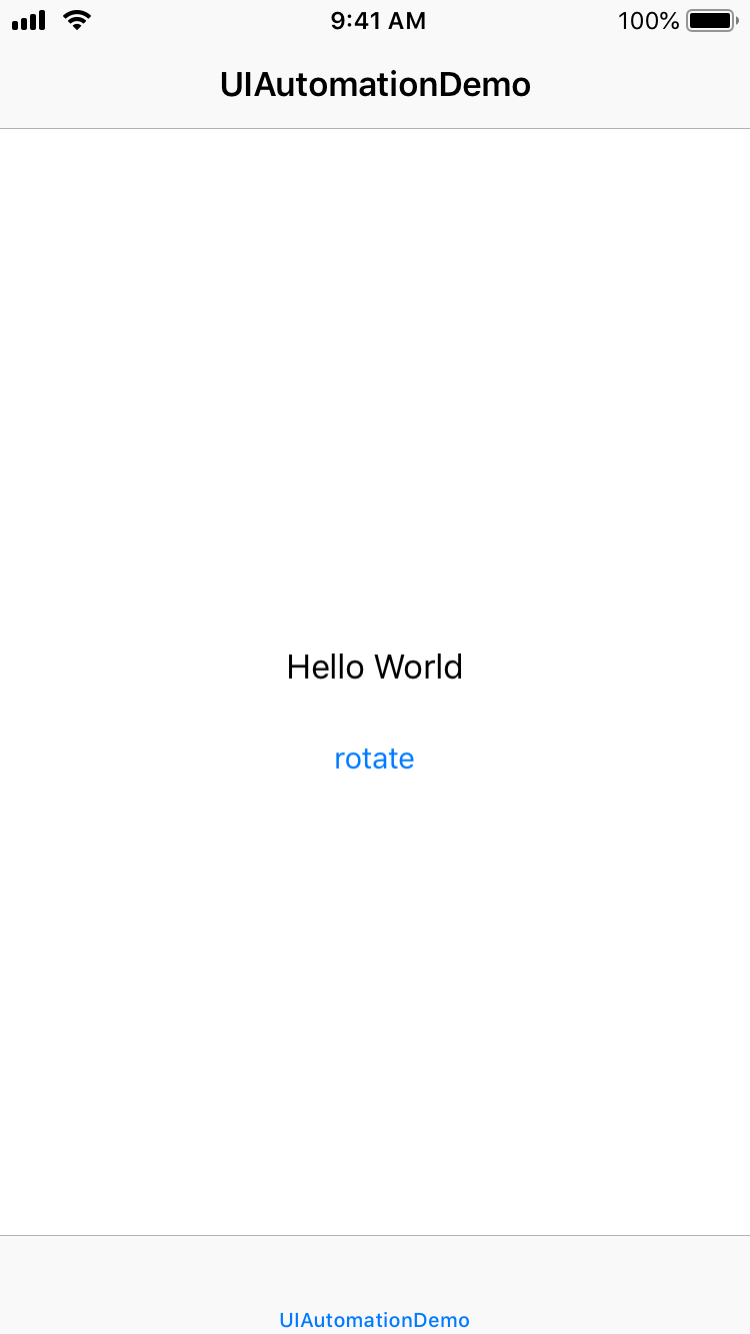
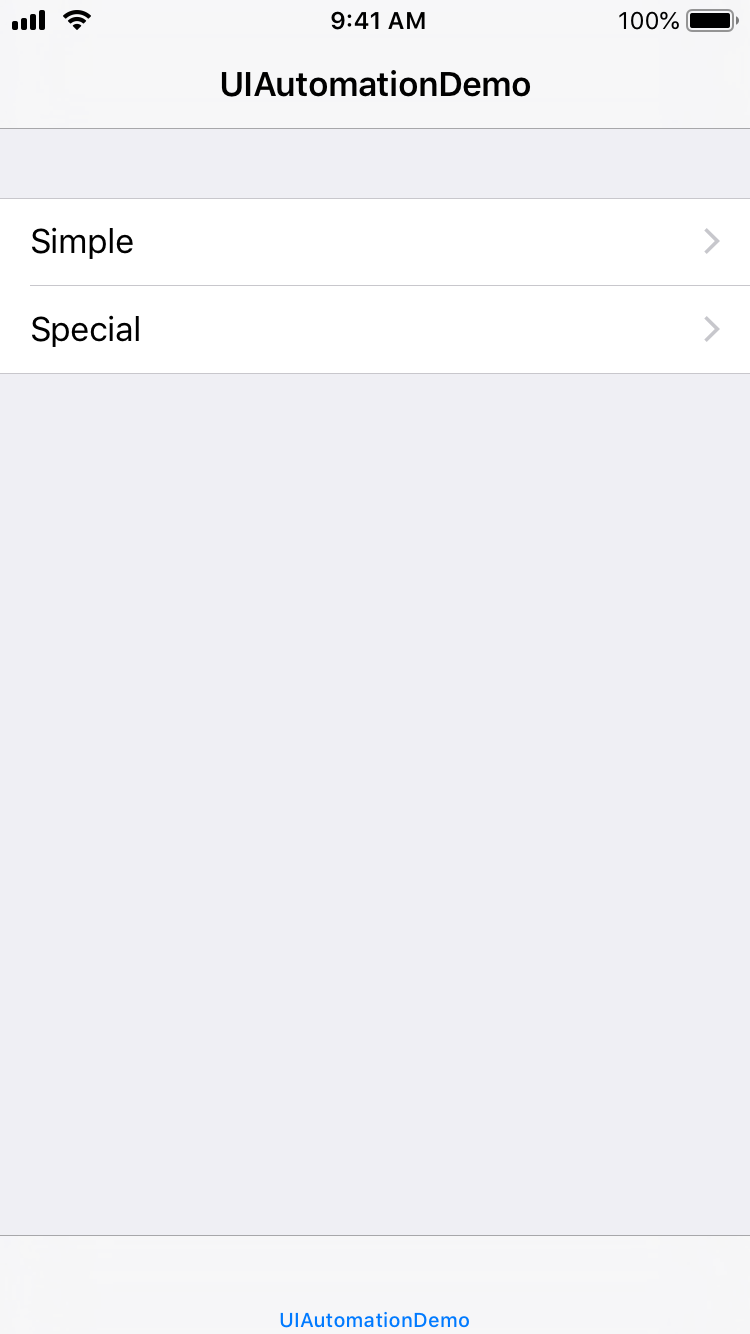
Update Example

diff --git a/UIAutomationDemoUITests/UIAutomationDemoUITests.swift b/UIAutomationDemoUITests/UIAutomationDemoUITests.swift
@@ -8,32 +8,49 @@
 
 import XCTest
 
+extension XCUIElement {
+    // The following is a workaround for inputting text in the
+    //simulator when the keyboard is hidden
+    func setText(text: String, application: XCUIApplication) {
+        UIPasteboard.general.string = text
+        coordinate(withNormalizedOffset: .zero).withOffset(CGVector(dx: 10, dy: 10)).doubleTap()
+        let pasteMenuItem = application.menuItems.firstMatch
+        pasteMenuItem.tap()
+    }
+}
+
 class UIAutomationDemoUITests: XCTestCase {
 
     override func setUp() {
-        // Put setup code here. This method is called before the invocation of each test method in the class.
-
-        // In UI tests it is usually best to stop immediately when a failure occurs.
         continueAfterFailure = false
 
-        // UI tests must launch the application that they test. Doing this in setup will make sure it happens for each test method.
         let app = XCUIApplication()
+        app.launchEnvironment = ["animations": "0"]
         setupSnapshot(app)
         app.launch()
-
-        // In UI tests it’s important to set the initial state - such as interface orientation - required for your tests before they run. The setUp method is a good place to do this.
     }
 
     override func tearDown() {
-        // Put teardown code here. This method is called after the invocation of each test method in the class.
     }
 
     func testExample() {
-        // Use recording to get started writing UI tests.
-        // Use XCTAssert and related functions to verify your tests produce the correct results.
+        
+        let app = XCUIApplication()
         snapshot("0Launch")
-        XCUIApplication().buttons["rotate"].tap()
-        snapshot("1Launch")
+        
+        app.tables.cells.staticTexts["Simple"].tap()
+        snapshot("1Simple")
+        let rotateButton = app.buttons["rotate"]
+        rotateButton.tap()
+        snapshot("2Simple")
+        app.navigationBars["Simple"].buttons["UIAutomationDemo"].tap()
+        
+        app.tables.cells.staticTexts["Special"].tap()
+        snapshot("3Special")
+        let searchField = app.searchFields.firstMatch
+        searchField.tap()
+        searchField.setText(text: "abs", application: app)
+        snapshot("4Special")
+        app.navigationBars["Special"].buttons["UIAutomationDemo"].tap()
     }
-
 }

diff --git a/UIAutomationDemo/SpecialViewController.swift b/UIAutomationDemo/SpecialViewController.swift
@@ -1,0 +1,55 @@
+//
+//  SpecialViewController.swift
+//  UIAutomationDemo
+//
+//  Created by ty0x2333 on 2018/12/21.
+//  Copyright © 2018 ty0x2333. All rights reserved.
+//
+
+import UIKit
+
+class SpecialViewController: UIViewController {
+    private let rectView: UIView = UIView()
+    private let searchBar: UISearchBar = UISearchBar()
+    
+    override func viewDidLoad() {
+        super.viewDidLoad()
+        title = "Special"
+        view.backgroundColor = UIColor.white
+        rectView.backgroundColor = UIColor.blue
+        view.addSubview(rectView)
+        
+        view.addSubview(searchBar)
+        if UITestUtils.isTesting {
+            for sv in searchBar.subviews {
+                for ssv in (sv.subviews.filter { $0 is UITextField }) {
+                    ssv.tintColor = UIColor.clear
+                }
+            }
+        }
+    
+        rectView.frame = CGRect(x: (view.bounds.width - 100) / 2.0,
+                                y: (view.bounds.height - 100) / 2.0,
+                                width: 100,
+                                height: 100)
+        if !UITestUtils.isTesting {
+            UIView.animate(withDuration: 0.8, delay: 0, options: [.`repeat`], animations: {
+                self.rectView.frame = CGRect(x: (self.view.bounds.width - 200) / 2.0,
+                                             y: (self.view.bounds.height - 200) / 2.0,
+                                             width: 200,
+                                             height: 200)
+            }, completion: nil)
+        }
+        
+        view.addGestureRecognizer(UITapGestureRecognizer(target: self, action: #selector(handleTap)))
+    }
+    
+    override func viewDidLayoutSubviews() {
+        super.viewDidLayoutSubviews()
+        searchBar.frame = CGRect(x: 0, y: 200, width: view.bounds.width, height: 50)
+    }
+    
+    @objc private func handleTap() {
+        view.endEditing(true)
+    }
+}

diff --git a/UIAutomationDemo/TableViewController.swift b/UIAutomationDemo/TableViewController.swift
@@ -1,0 +1,52 @@
+//
+//  TableViewController.swift
+//  UIAutomationDemo
+//
+//  Created by ty0x2333 on 2018/12/21.
+//  Copyright © 2018 ty0x2333. All rights reserved.
+//
+
+import UIKit
+
+class TableViewController: UIViewController {
+    private let tableView = UITableView(frame: .zero, style: .grouped)
+    private let datas: [(title: String, type: UIViewController.Type)] = [
+        (title: "Simple", type: SimpleViewController.self),
+        (title: "Special", type: SpecialViewController.self)
+    ]
+    
+    override func viewDidLoad() {
+        super.viewDidLoad()
+        title = Bundle.main.infoDictionary?["CFBundleName"] as? String
+        
+        tableView.dataSource = self
+        tableView.delegate = self
+        tableView.register(UITableViewCell.self, forCellReuseIdentifier: String(describing: UITableViewCell.self))
+        view.addSubview(tableView)
+    }
+    
+    override func viewDidLayoutSubviews() {
+        super.viewDidLayoutSubviews()
+        tableView.frame = view.bounds
+    }
+}
+
+extension TableViewController: UITableViewDataSource {
+    func tableView(_ tableView: UITableView, numberOfRowsInSection section: Int) -> Int {
+        return datas.count
+    }
+    
+    func tableView(_ tableView: UITableView, cellForRowAt indexPath: IndexPath) -> UITableViewCell {
+        let cell = tableView.dequeueReusableCell(withIdentifier: String(describing: UITableViewCell.self), for: indexPath)
+        cell.textLabel?.text = datas[indexPath.row].title
+        cell.accessoryType = .disclosureIndicator
+        return cell
+    }
+}
+
+extension TableViewController: UITableViewDelegate {
+    func tableView(_ tableView: UITableView, didSelectRowAt indexPath: IndexPath) {
+        tableView.deselectRow(at: indexPath, animated: true)
+        navigationController?.pushViewController(datas[indexPath.row].type.init(), animated: true)
+    }
+}

diff --git a/UIAutomationDemo/AppDelegate.swift b/UIAutomationDemo/AppDelegate.swift
@@ -19,10 +19,10 @@ class AppDelegate: UIResponder, UIApplicationDelegate {
         window = UIWindow(frame: UIScreen.main.bounds)
         window?.backgroundColor = UIColor.white
         let tabBarController = UITabBarController()
-        tabBarController.viewControllers = [UINavigationController(rootViewController: SimpleViewController())]
+        tabBarController.viewControllers = [UINavigationController(rootViewController: TableViewController())]
         window?.rootViewController = tabBarController
         window?.makeKeyAndVisible()
-        if UserDefaults.standard.bool(forKey: "FASTLANE_SNAPSHOT") {
+        if UITestUtils.isTesting {
             SDStatusBarManager.sharedInstance()?.enableOverrides()
         }
         return true

diff --git a/UIAutomationDemo/UITestUtils.swift b/UIAutomationDemo/UITestUtils.swift
@@ -1,0 +1,19 @@
+//
+//  UITestUtils.swift
+//  UIAutomationDemo
+//
+//  Created by ty0x2333 on 2018/12/21.
+//  Copyright © 2018 ty0x2333. All rights reserved.
+//
+
+import Foundation
+
+class UITestUtils {
+    static var isTesting: Bool {
+        #if DEBUG
+        return UserDefaults.standard.bool(forKey: "FASTLANE_SNAPSHOT")
+        #else
+        return false
+        #endif
+    }
+}

diff --git a/UIAutomationDemo/SimpleViewController.swift b/UIAutomationDemo/SimpleViewController.swift
@@ -14,7 +14,8 @@ class SimpleViewController: UIViewController {
     
     override func viewDidLoad() {
         super.viewDidLoad()
-        title = Bundle.main.infoDictionary?["CFBundleName"] as? String
+        title = "Simple"
+        view.backgroundColor = UIColor.white
         
         label.text = "Hello World"
         label.textAlignment = .center
